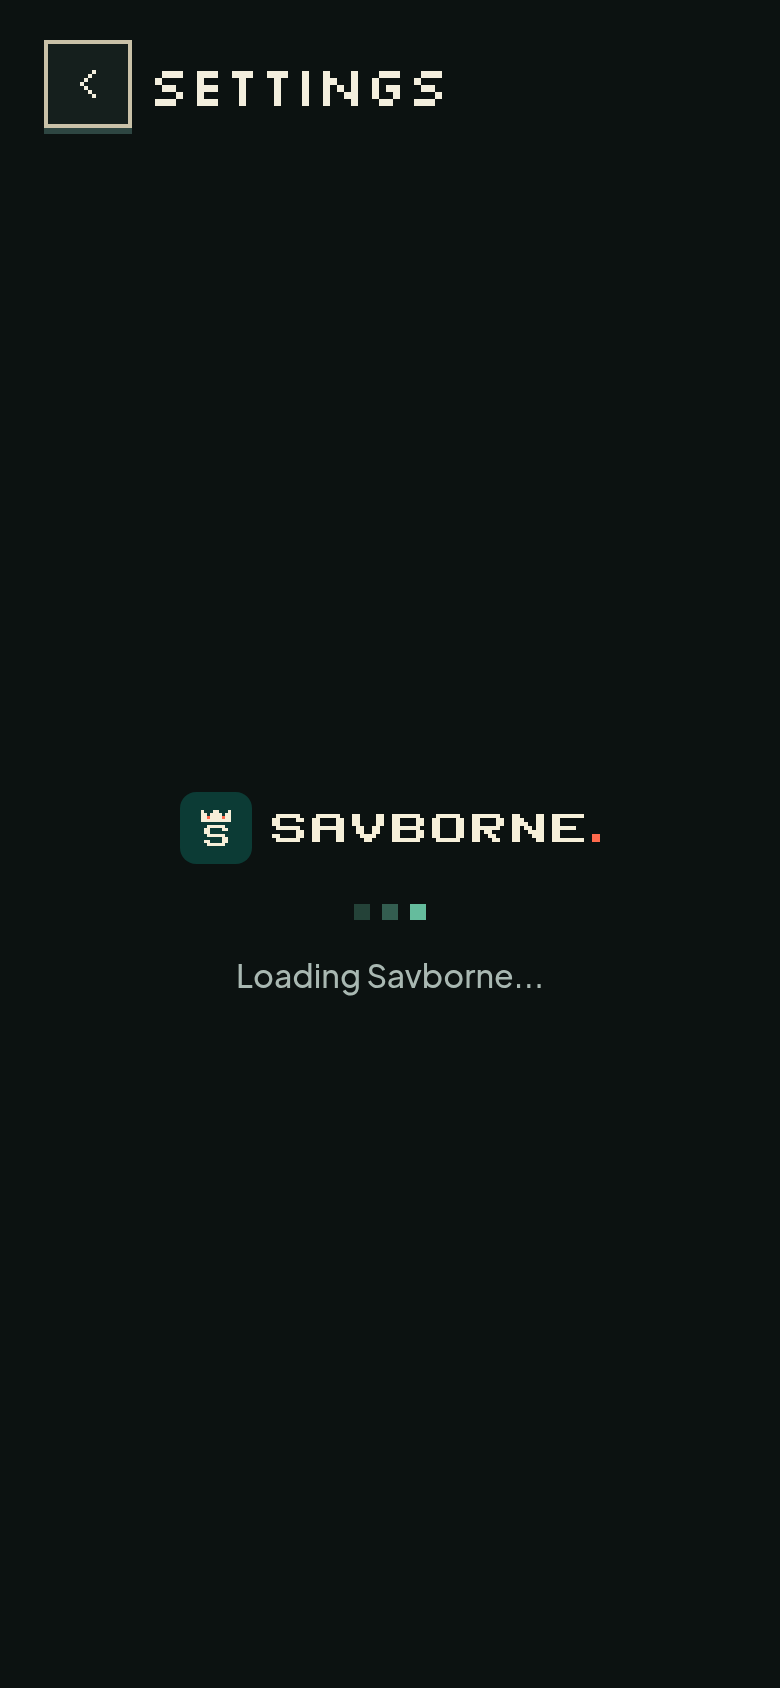
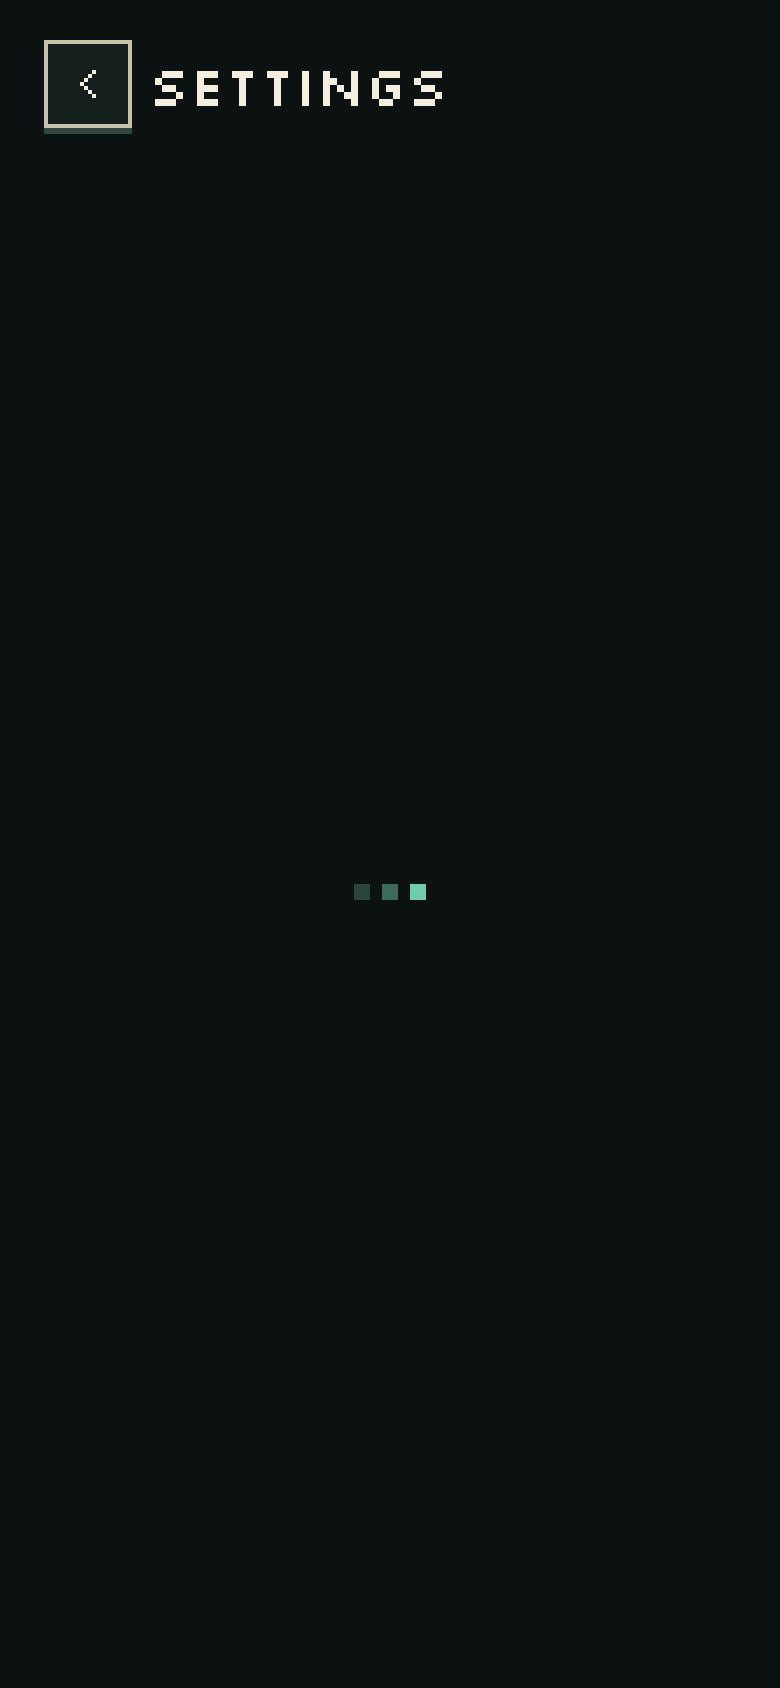
fix: reduce the loading state to its dots

Changed region(s): [[0.2154, 0.4621, 0.7385, 0.5237], [0.3077, 0.5237, 0.6462, 0.5853]]

diff --git a/src/components/ui/LoadingState.tsx b/src/components/ui/LoadingState.tsx
@@ -1,16 +1,14 @@
 'use client'
 
 /**
- * Savborne - branded loading state
+ * Savborne - loading state
  *
- * Used wherever a screen waits on data. The logo and three pixel dots are
- * always correct, even before the player's chosen character is known. The
- * 150ms delay keeps a fast load from flashing the loader; reduced motion
- * leaves the dots static.
+ * Three 8px pixel dots and nothing else. The 150ms delay keeps a fast load from
+ * flashing the loader; reduced motion leaves the dots static. The accessible
+ * label is not drawn.
  */
 
 import { useEffect, useState } from 'react'
-import { BrandMark } from '@/components/BrandMark'
 
 export function LoadingState({ label = 'Loading Savborne...' }: { label?: string }) {
   const [visible, setVisible] = useState(false)
@@ -24,17 +22,15 @@ export function LoadingState({ label = 'Loading Savborne...' }: { label?: string
 
   return (
     <div
-      className="flex flex-1 flex-col items-center justify-center gap-4 py-16 text-center"
+      className="flex flex-1 items-center justify-center py-16"
       role="status"
-      aria-live="polite"
+      aria-label={label}
     >
-      <BrandMark />
       <span className="sv-loader" aria-hidden>
         <span />
         <span />
         <span />
       </span>
-      <span className="sv-body text-fg-muted">{label}</span>
     </div>
   )
 }

diff --git a/src/lib/loading.test.ts b/src/lib/loading.test.ts
@@ -26,13 +26,14 @@ const PAGES = [
   '../app/settings/delete/page.tsx',
 ]
 
-test('the loader is the brand, three pixel dots and one label', () => {
-  assert.match(LOADER, /<BrandMark \/>/)
+test('the loader is three pixel dots and an accessible label only', () => {
   assert.match(LOADER, /className="sv-loader" aria-hidden/)
   assert.match(LOADER, /role="status"/)
-  assert.match(LOADER, /aria-live="polite"/)
-  assert.match(LOADER, /Loading Savborne\.\.\./)
+  assert.match(LOADER, /aria-label=\{label\}/)
+  assert.match(LOADER, /label = 'Loading Savborne\.\.\.'/)
   assert.match(LOADER, /setTimeout\(\(\) => setVisible\(true\), 150\)/)
+  assert.doesNotMatch(LOADER, /BrandMark/)
+  assert.doesNotMatch(LOADER, /<span className="sv-body/)
 })
 
 test('the dots are 8px mint and stop under reduced motion', () => {

diff --git a/docs/superpowers/renders/onboarding/review/index.html b/docs/superpowers/renders/onboarding/review/index.html
@@ -113,7 +113,7 @@
 </section>
 <section class="screen">
   <h2>16. Loading state</h2>
-  <p class="route">/settings?slow=1 - The brand mark and three pixel dots after 150ms; the header stays.</p>
+  <p class="route">/settings?slow=1 - Three pixel dots after 150ms; the header stays.</p>
   <div class="strip"><figure><figcaption>360</figcaption><img src="current/loading@360.png" alt="Loading state at 360px"></figure><figure><figcaption>390</figcaption><img src="current/loading@390.png" alt="Loading state at 390px"></figure><figure><figcaption>430</figcaption><img src="current/loading@430.png" alt="Loading state at 430px"></figure></div>
 </section>
 <section class="screen">

diff --git a/docs/superpowers/audits/2026-11-05-ui-gap-audit.md b/docs/superpowers/audits/2026-11-05-ui-gap-audit.md
@@ -1072,10 +1072,11 @@ in a grid row now share the same height.
 
 ### What landed
 
-- **Loading state:** `src/components/ui/LoadingState.tsx` renders the handoff
-  brand mark, three 8px mint dots and "Loading Savborne...". It waits 150ms
-  before appearing so a fast load does not flash it, is a polite status region,
-  and the dots stop under reduced motion. It replaces the plain loading text on
+- **Loading state:** `src/components/ui/LoadingState.tsx` renders three 8px
+  mint dots and nothing else. The status region keeps a non-visible "Loading
+  Savborne..." label for screen readers. It waits 150ms before appearing so a
+  fast load does not flash it, and the dots stop under reduced motion. It
+  replaces the plain loading text on
   Home, Profile, Missions, Ranks, Vault, Battle menu, Items, Receipts, ranked
   queue, arena, result, friend challenge, Bracket Climb, First check-in,
   Withdrawal, Settings and Delete account. The Nimiq Pay Preparing state keeps
@@ -1100,8 +1101,8 @@ in a grid row now share the same height.
 
 ### 360 behaviour
 
-- Loading: the brand and dots centre in the body under the existing header;
-  the label and dots fit at 360.
+- Loading: the three dots centre in the body under the existing header; no
+  text is drawn.
 - Privacy: the collect card and the don't card now end on the same line; the
   disclosure, consent line and Continue still fit with the disclosure closed.
 - Items: each row's two cards share a bottom edge; the taller description sets
@@ -1110,9 +1111,10 @@ in a grid row now share the same height.
 
 ### Rulings
 
-- **Brand + dots, not the character.** The chosen avatar is not known during the
-  first load, so a character loader could flash Hero before a Heroine profile
-  arrives. The dots are always correct.
+- **Dots only.** The wordmark and visible label were removed; the loader is
+  three mint dots. The status region keeps a non-visible "Loading Savborne..."
+  label for screen readers. No character art is used, so no wrong avatar can
+  flash before the profile arrives.
 - **150ms delay.** A fast page continues straight to content; the loader only
   appears when the wait is perceptible.
 - **Gate Preparing stays separate.** It is the wallet check, not a page data
